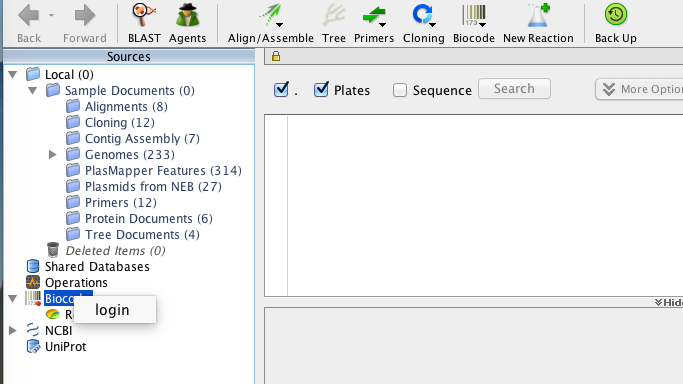
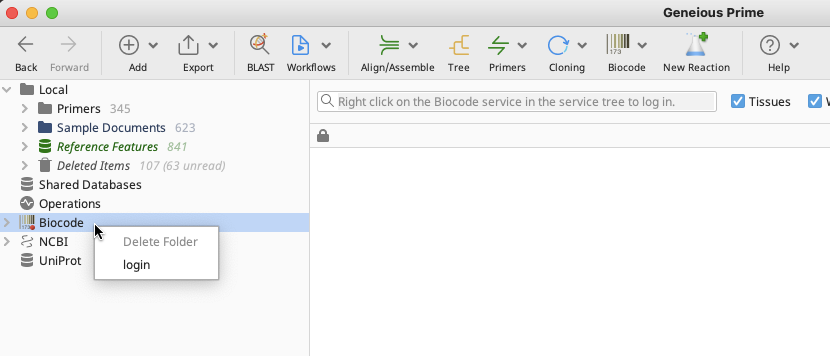
Update biocode_plugin.rst (#24)
* Update biocode_plugin.rst

Updated text, made 3rd person, italicized window names, capitalized titles. Updated screenshots

* Add files via upload

These are the updated screenshots

Changed region(s): [[0.0, 0.0, 1.0, 1.0], [0.369, 0.7416, 1.0, 0.8034]]

diff --git a/Docs/biocode_plugin.rst b/Docs/biocode_plugin.rst
@@ -1,32 +1,32 @@
 .. _biocode_plugin-link:
 
-Connecting with the Geneious Biocode Plugin
+Connecting with the Biocode Plugin
 ===========================================
 
-BWP Biocode Plugin connection details
--------------------------------------
+Install the latest version of the Biocode Plugin. Check the :ref:`updates-link` section of the Home Page to see the latest version available and click the link to download the gplugin file if needed. 
 
-Install the latest version of the Biocode Plug-in. Check the :ref:`updates-link` section of the Home Page to see the latest version available. If you do not have the latest version, then follow the instructions in the :ref:`plugins-link` section of the previous page.
+To import this gplugin file into Geneious Prime, follow the instructions in the :ref:`plugins-link` section of the previous page.
 
-Once the Biocode plugin has been successfully installed, you can now connect by right-clicking on the Biocode icon in the Sources panel and click "Login".
+Once the Biocode plugin has been successfully installed, connect by right-clicking on the Biocode icon in the Sources Panel and click "Login".
 
 .. figure:: /images/biocode_login.png
   :align: center
   :target: /en/latest/_images/biocode_login.png
 
-This will open the Biocode Connections window that looks like this:
+This will open the *Biocode Connections* window. Click "Add" in the lower left and a new connection will appear that looks like this:
 
 .. figure:: /images/biocode_connection_details_empty.png
   :align: center
   :target: /en/latest/_images/biocode_connection_details_empty.png
 
 Connection Name and Method
-~~~~~~~~~~~~~~~~~~~~~~~~~~
+--------------------------
 
-Enter a value in the Connection Name so that the plug-in saves this information. 
+Enter a value such as "GEOME FIMS" in the Connection Name so that the plugin saves this information. 
+
 
 Field Database Connection
-~~~~~~~~~~~~~~~~~~~~~~~~~
+--------------------------
 
 In the Field Database Connection section, select "GeOMe FIMS" from the dropdown.
 
@@ -34,13 +34,13 @@ In the Field Database Connection section, select "GeOMe FIMS" from the dropdown.
   :align: center
   :target: /en/latest/_images/biocode_fims_options.png
 
-This will auto-fill the Host box with “https://api.geome-db.org”. Enter the FIMS Username and Password assigned to you. Make sure to tick the “Save” box to save your login information to the plugin.
+This will auto-fill the Host box with “https://api.geome-db.org”. Enter the previously assigned GEOME FIMS Username and Password. Make sure to tick the “Save” box to save login information to the plugin.
 
 
 LIMS Database Connection
-~~~~~~~~~~~~~~~~~~~~~~~~
+-------------------------
 
-In the LIMS Location section, start out by selecting "Remote MySQL Database" from the dropdown.
+In the LIMS location section, start out by selecting "Remote MySQL Database" from the dropdown.
 
 Server Address
 	For "Server Address", copy and paste in "nmnh-lims.si.edu".
@@ -49,13 +49,15 @@ Port
 Database Name
 	For "Database Name", enter "lims".
 Username and Password
-	Finally, for the "Username" and "Password" boxes, enter the LIMS database Username and Password that John Keltner assigned to you via email.
+	Finally, for the "Username" and "Password" boxes, enter the LIMS database Username and Password that were assigned via email by the NMNH LIMS database administrator.
 
 Make sure that the checkbox next to "Save" is ticked.
 
-Your fully-completed Biocode Connection window should look like this:
+The fully-completed *Biocode Connections* window should look like this:
 
 .. figure:: /images/biocode_connection_details_completed.png
   :align: center
   :scale: 50 %
   :target: /en/latest/_images/biocode_connection_details_completed.png
+  
+Click "OK" to log into the Biocode Plugin to be able to utilize the LIMS.
